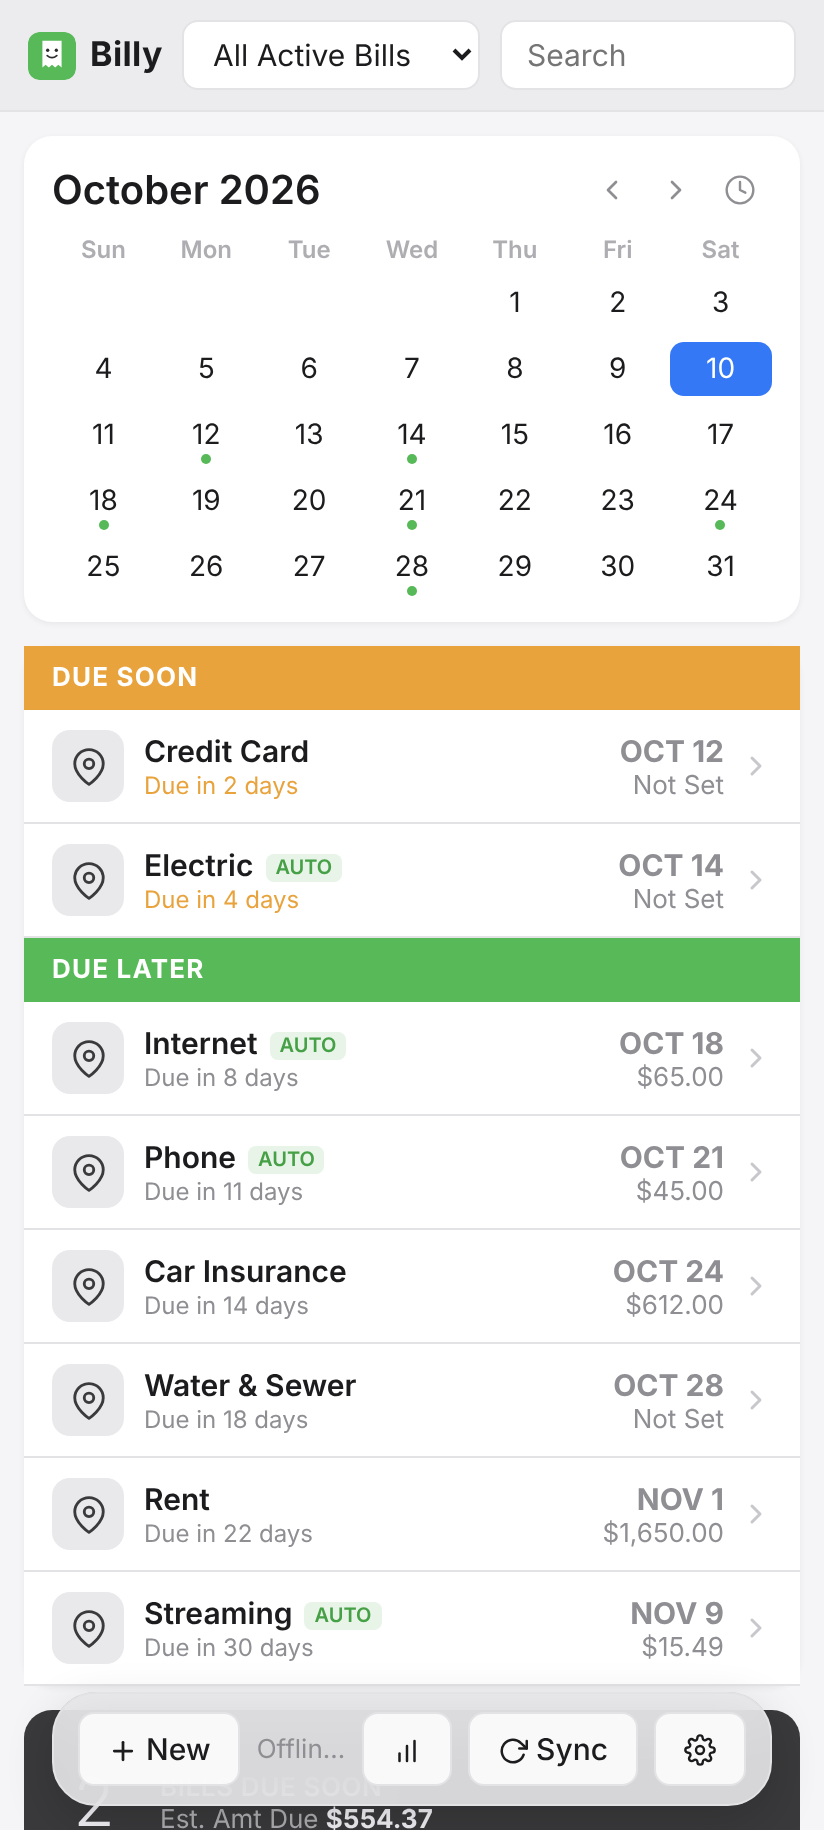
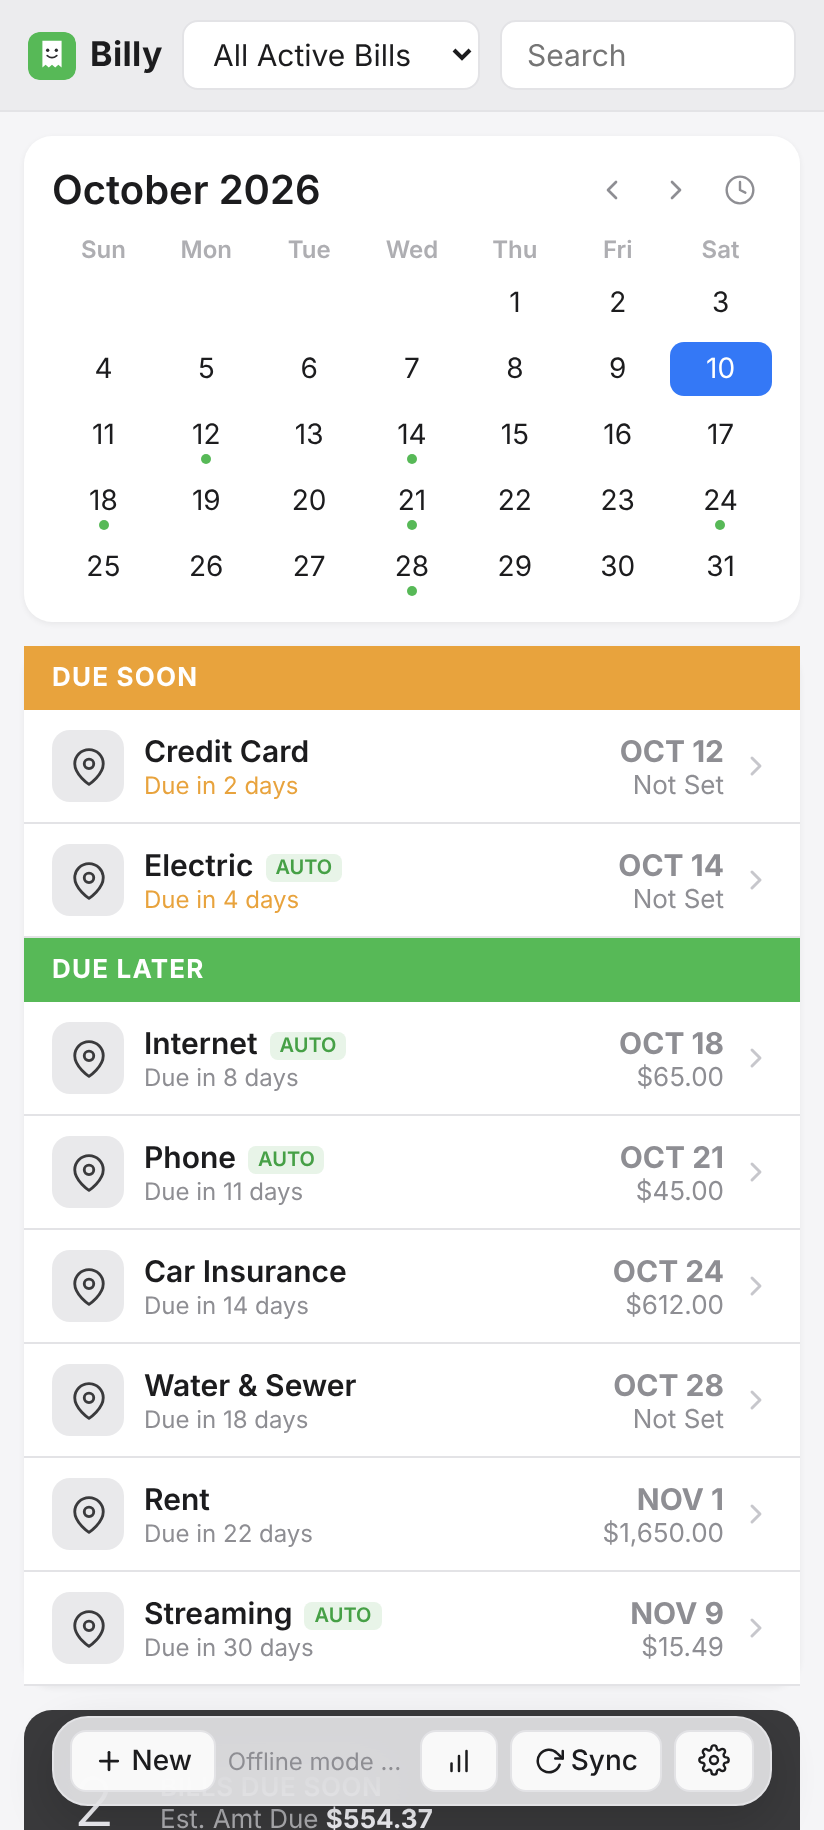
Make the floating bottom bar more compact on phones
The mobile pill reused the desktop button sizing, so on a phone-width
screen it stood ~57px tall and squeezed the sync status down to a few
letters. Tighten the button and bar padding and drop the text a size:
the bar is now ~45px and the status line has room to read.

Desktop is unchanged; everything is inside the max-width:800px block.
Also refresh the narrow install-dialog screenshot to match.

Claude-Session: https://claude.ai/code/session_01KGzqFrbPRnazqsg4oyN6KH

Changed region(s): [[0.0607, 0.9344, 0.9405, 0.9967]]

diff --git a/index.html b/index.html
@@ -260,9 +260,11 @@ a.btn{text-decoration:none;color:inherit}
   .bottombar{position:fixed;left:26px;right:26px;bottom:max(12px, env(safe-area-inset-bottom));
     border:1px solid var(--line);border-radius:22px;
     background:var(--glass);backdrop-filter:blur(14px);-webkit-backdrop-filter:blur(14px);
-    box-shadow:0 8px 24px var(--shadow-bar);padding:9px 12px}
-  .bottombar .btn{background:var(--glass-btn)}
-  .main{padding-bottom:74px} /* keep the last card clear of the floating bar */
+    box-shadow:0 8px 24px var(--shadow-bar);padding:6px 8px;gap:6px;border-radius:18px}
+  /* compact on phones: the desktop-sized buttons made the pill ~57px tall */
+  .bottombar .btn{background:var(--glass-btn);padding:6px 11px;font-size:14px}
+  .bottombar .hint{font-size:12px}
+  .main{padding-bottom:62px} /* keep the last card clear of the floating bar */
 }
 </style>
 <script>
